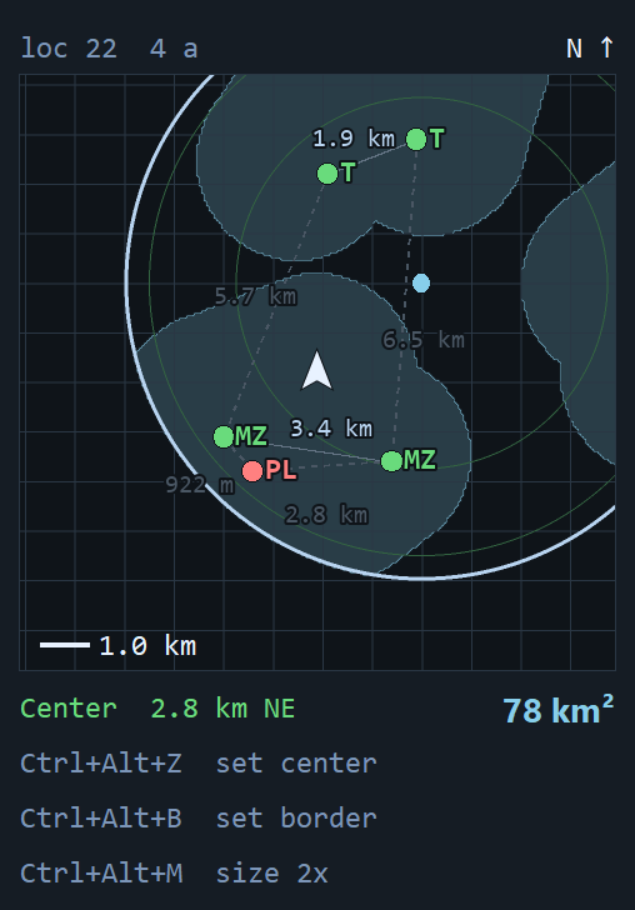
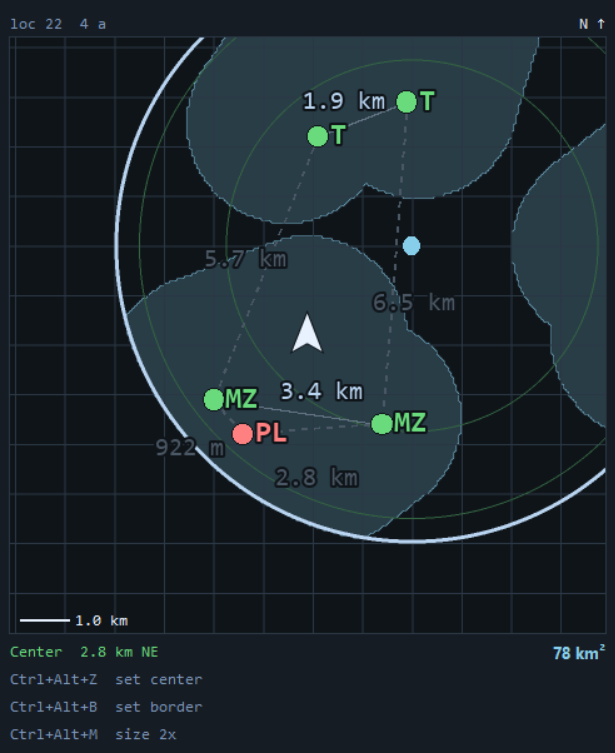
Ctrl+Alt+M scales the map, not the window. 4.5.1
_layout measured the padding, the bands and the type in them from the map's
side, so 2x doubled the header, the hotkey rows and the frame along with the
ground. They are measured from the side the map has at 1x now: on a 1080p
window 2x is 492x602 rather than 508x728, and 1x is unchanged everywhere.

Docs images re-rendered at the new proportions.

diff --git a/rs_ui/minimap.py b/rs_ui/minimap.py
@@ -209,7 +209,10 @@ def _show_map(root, status, system, lat, lon, heading, in_reach, body):
         _down("no window could be built")
         return
     _up()
-    side = coverage.map_side(rect[3] - rect[1] if rect else None, zoom())
+    height = rect[3] - rect[1] if rect else None
+    # The map grows with the hotkey; the frame and the rows under it do not.
+    base = coverage.map_side(height)
+    side = coverage.map_side(height, zoom())
     where = corner()
     x, y = _coverage.xy(lat, lon)
     header = _header(status, body, system)
@@ -225,9 +228,9 @@ def _show_map(root, status, system, lat, lon, heading, in_reach, body):
              tuple(round(v) for v in _coverage.anchor()), _coverage.centered,
              _coverage.border_m, _hint(), marks)
     if state != _drawn:
-        _draw(side, x, y, heading, in_reach, header, marks, _distances_shown())
+        _draw(side, x, y, heading, in_reach, header, marks, _distances_shown(), base)
         _drawn = state
-    _place(side, where, rect)
+    _place(side, where, rect, base)
 
 
 def center_here():
@@ -621,21 +624,27 @@ def _hint():
     return None
 
 
-def _layout(side):
+def _layout(side, base=None):
     """(unit, padding, text band, window width, window height) for a map this
     wide. Five bands: the header over the map, and three hotkey rows plus the
-    distance row under it."""
-    unit = side / 240.0
+    distance row under it.
+
+    `base` is the side the map would have at 1x. Everything round the map - the
+    padding, the text bands and the type in them - is measured from that, so
+    the size hotkey grows the ground you are looking at and leaves the frame
+    and the rows under it exactly where they were.
+    """
+    unit = (base or side) / 240.0
     pad = max(6, round(8 * unit))
     band = max(18, round(22 * unit))
     return unit, pad, band, side + 2 * pad, side + 5 * band + 2 * pad
 
 
-def _place(side, where, rect):
+def _place(side, where, rect, base=None):
     """Into the corner, shown, and on top - every tick, since the game gets
     moved and a game going fullscreen takes the top of the Z-order with it."""
     global _placed, _shown
-    _, _, _, width, height = _layout(side)
+    _, _, _, width, height = _layout(side, base)
     if rect:
         left, top, right, bottom = rect
     else:
@@ -674,9 +683,9 @@ def _header(status, body, system):
     return f"loc {index}  {short}" if index is not None else short
 
 
-def _draw(side, x, y, heading, in_reach, header, marks=(), distances=False):
+def _draw(side, x, y, heading, in_reach, header, marks=(), distances=False, base=None):
     global _photo
-    unit, pad, band, width, height = _layout(side)
+    unit, pad, band, width, height = _layout(side, base)
     image = coverage.render(_coverage, x, y, heading, side, marks, distances)
     data = io.BytesIO()
     image.save(data, "PNG", compress_level=1)

diff --git a/rs_core/update.py b/rs_core/update.py
@@ -27,7 +27,7 @@ try:
 except ImportError:         # a bare interpreter without it
     requests = None
 
-VERSION = "4.5.0"
+VERSION = "4.5.1"
 
 # For testing the update path without publishing a throwaway release: set
 # RHINOSPOTTER_VERSION to something older and the running plugin will see the

diff --git a/README.md b/README.md
@@ -116,8 +116,10 @@ On a body's bookmark list:
   a blue dot on the map, smaller than a bookmark.
 - **Ctrl+Alt+B** - set the border where you stand (needs a center). Rings then
   show the drive circles; ground outside the border is dropped.
-- **Ctrl+Alt+M** - twice the size, and back. Capped at 640 px. The size sticks
-  across EDMC restarts.
+- **Ctrl+Alt+M** - twice the size, and back. It scales the map only: the frame,
+  the header and the rows under it stay the size they were, so the window grows
+  by the ground you gained and nothing else. Capped at 640 px of map. The size
+  sticks across EDMC restarts.
 - Bookmarks are dots with material codes: green active, red depleted.
 - At 2x the bookmarks are joined up, each line carrying its length:
   - **solid** to the nearest bookmark of the **same material** - where to go to

diff --git a/CHANGELOG.md b/CHANGELOG.md
@@ -1,5 +1,20 @@
 # Changelog
 
+## 4.5.1
+
+**Fixed**
+
+- Ctrl+Alt+M scaled the whole window, not the map. The padding, the text bands
+  and the type in them were all measured from the map's side, so at 2x the
+  header, the hotkey rows and the frame doubled along with the ground and the
+  map took a third of the screen for no more information. They are measured
+  from the size the map has at 1x now. On a 1080p window 2x is 492x602 instead
+  of 508x728, and 1x is unchanged everywhere.
+- `mining_sheet.json` is the one regenerated from 928 mining locations. 4.5.0
+  shipped the sheet of 2026-09-14, four days and 61 locations behind, and since
+  4.5.0 that file sets the price ranking the dotted lines step down as well as
+  the codes on the dots.
+
 ## 4.5.0
 
 **Added**
